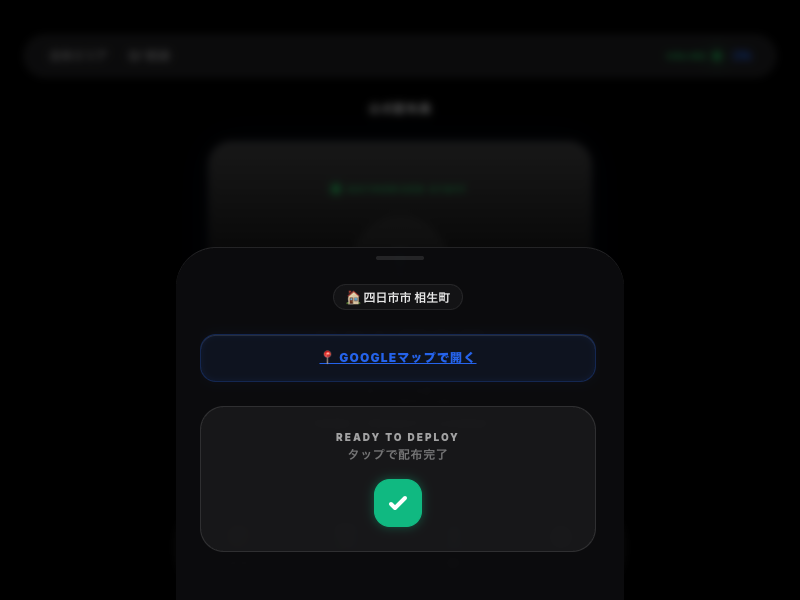
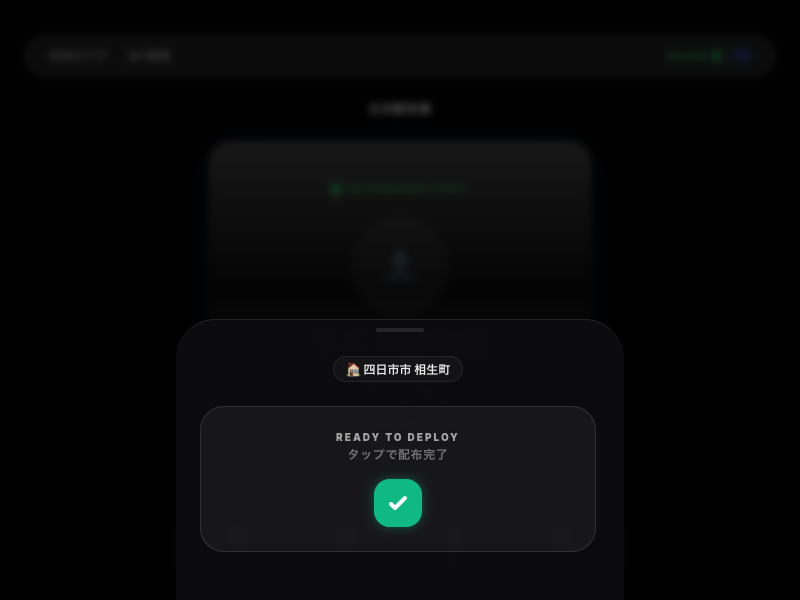
refactor(modal): remove legacy google maps button from detail modal

Changed region(s): [[0.25, 0.48, 0.75, 0.66]]

diff --git a/active/dashboard/render.js b/active/dashboard/render.js
@@ -345,14 +345,6 @@ function renderDetailModalContent(p) {
     addrFontSizeClass = 'text-base';
   }
 
-  // 完了済み(p.isDone)の場合はGoogle Mapsボタンを非表示にする
-  const googleMapsButtonHtml = !p.isDone ? `
-    <!-- 2行目: 横幅いっぱいのGoogle Mapsボタン -->
-    <a href="https://www.google.com/maps/search/?api=1&query=${encodeURIComponent(cleanAddr)}" target="_blank" style="background: rgba(37, 99, 235, 0.08); border: 1px solid rgba(37, 99, 235, 0.25); color: #2563eb; box-shadow: inset 0 1px 0 rgba(255,255,255,0.1), inset 0 0 6px rgba(37,99,235,0.1), 0 0 12px rgba(37,99,235,0.05); backdrop-filter: blur(12px); -webkit-backdrop-filter: blur(12px);" class="w-full h-12 flex items-center justify-center gap-2 text-xs font-black uppercase tracking-widest rounded-2xl active:scale-[0.97] transition-all">
-      📍 Googleマップで開く
-    </a>
-  ` : '';
-
   return `
     <!-- 1行目: 住所バッジ（中央寄せ） -->
     <div class="w-full flex flex-col items-center gap-3">
@@ -361,8 +353,6 @@ function renderDetailModalContent(p) {
       </div>
       ${p.memo ? `<div class="text-xs text-white/50 bg-white/5 rounded-xl p-3 border border-white/5 select-text w-full text-center mt-1">${escapeHtml(p.memo)}</div>` : ''}
     </div>
-    
-    ${googleMapsButtonHtml}
     
     <div class="flex flex-col gap-4">
       ${!p.isDone ? `
